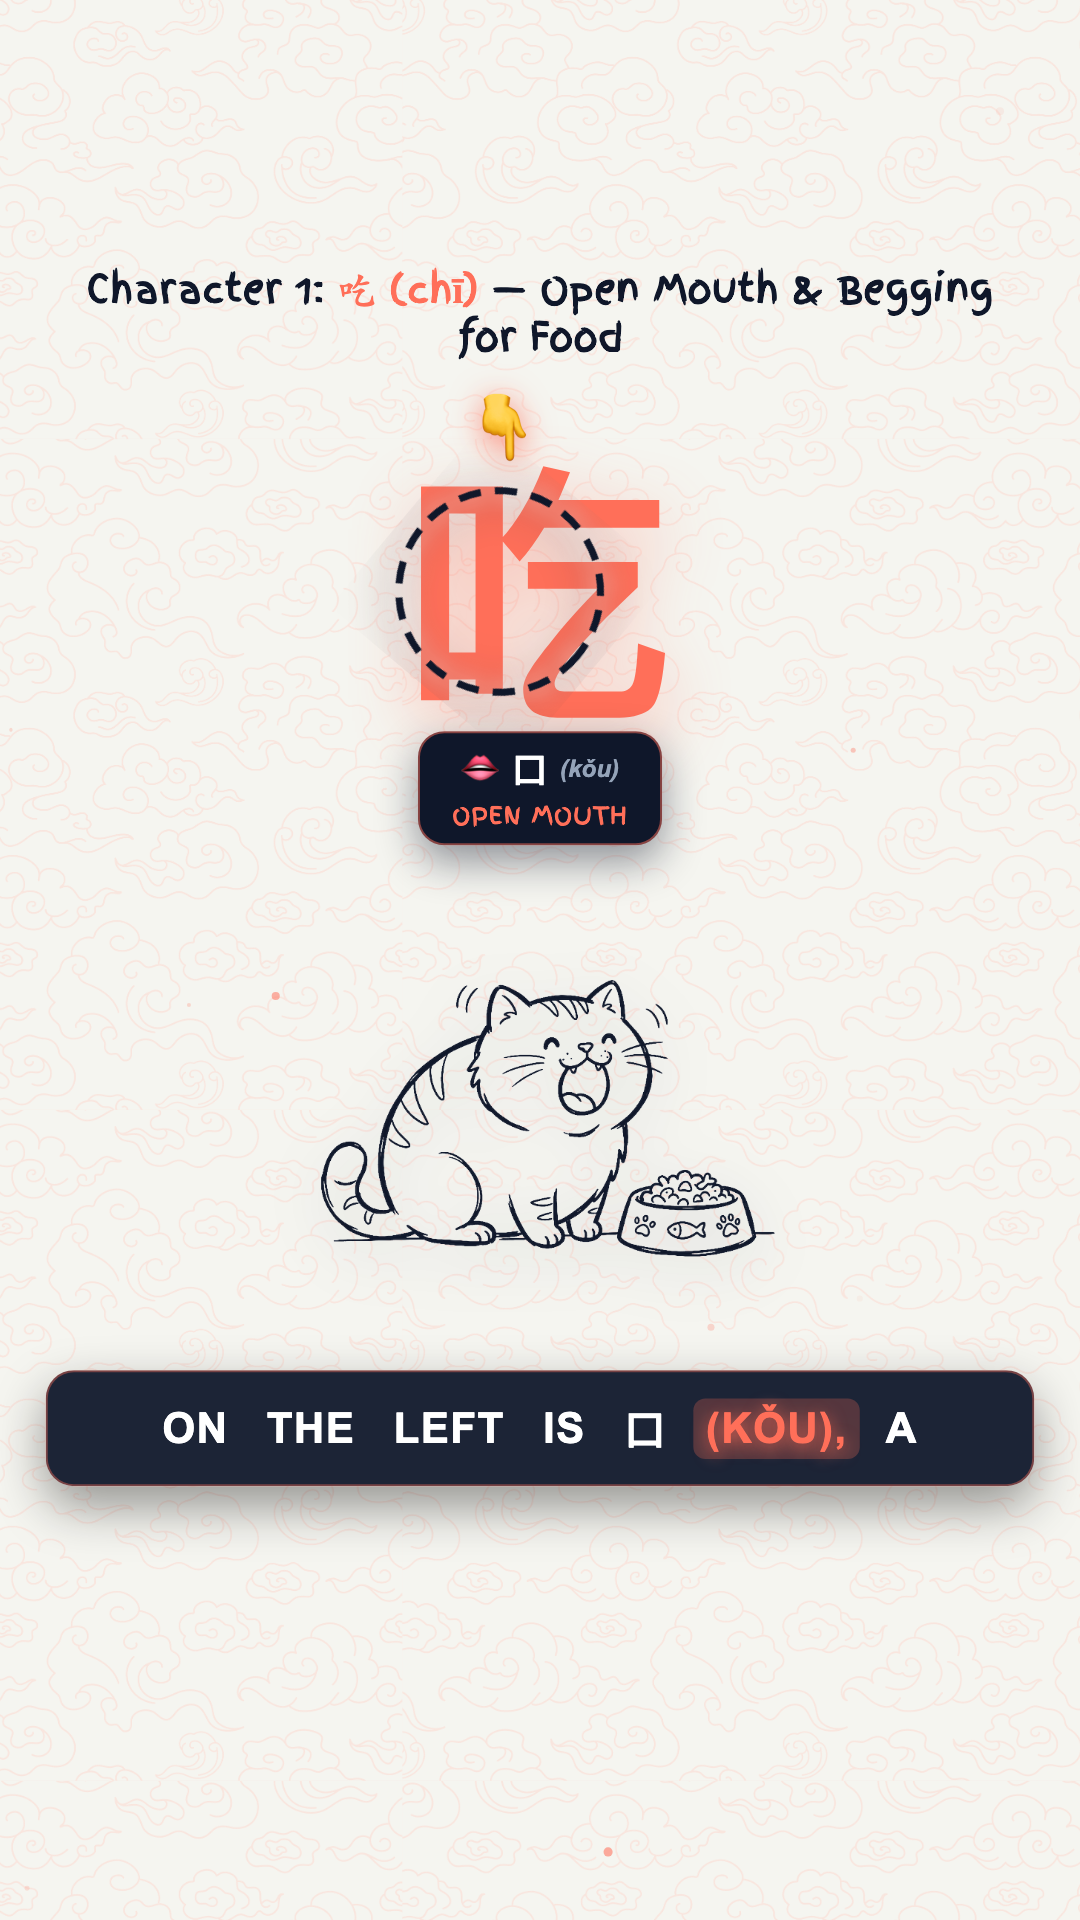
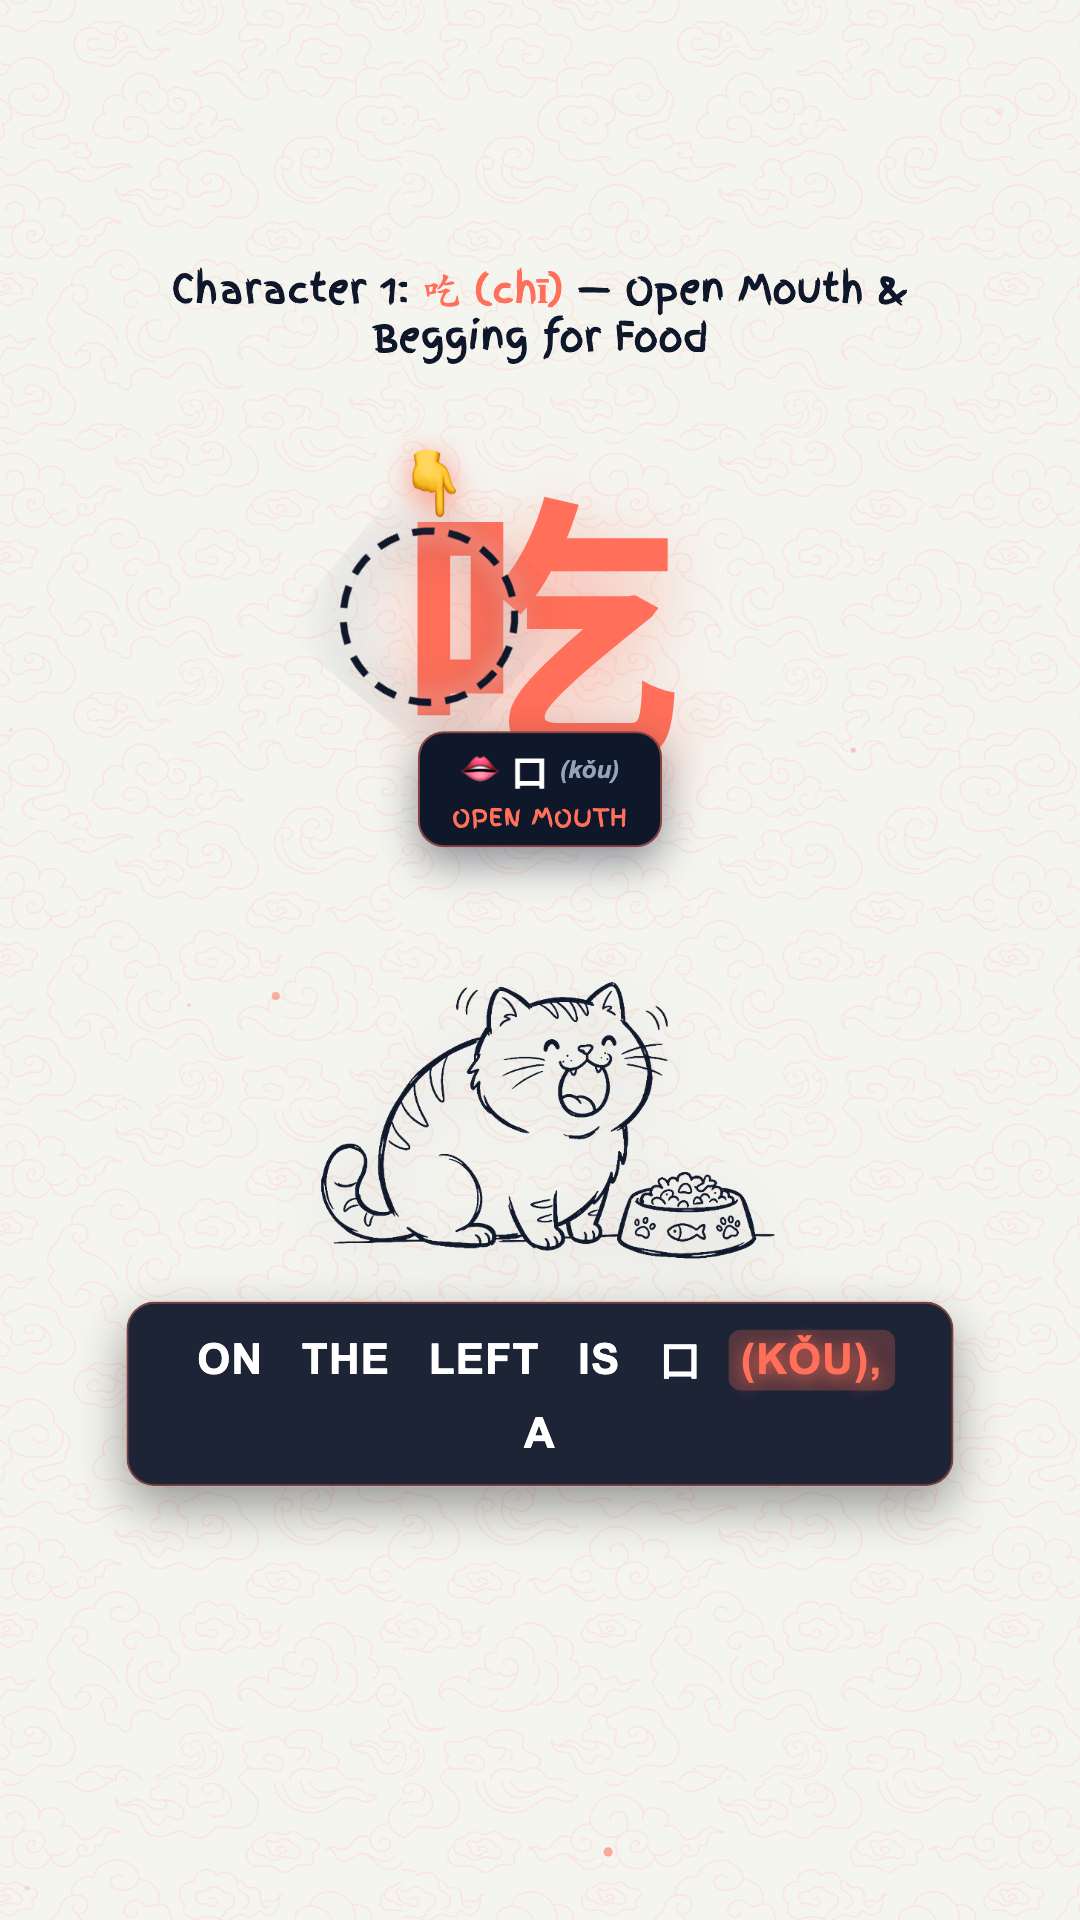
fix(chicu): calibrate spotlight coordinates and restore root canvas centering

Changed region(s): [[0.0306, 0.5, 0.9778, 0.8125], [0.0917, 0.125, 0.9167, 0.4375], [0.3667, 0.5625, 0.3972, 0.5938]]

diff --git a/engine/src/templates/EtymologyTemplate.tsx b/engine/src/templates/EtymologyTemplate.tsx
@@ -134,7 +134,7 @@ const DynamicSmoothSpotlight: React.FC<{
       <div
         style={{
           position: 'absolute',
-          top: -(radius - 15),
+          top: -(radius - 30),
           left: '50%',
           transform: 'translateX(-50%)',
           color: '#FF6F59',
@@ -487,18 +487,18 @@ export const EtymologyTemplate: React.FC<EtymologyConfig> = ({
     if (isScreen2TopBang) {
       // 口 (left)
       spot2X = 430;
-      spot2Y = 160;
-      spot2R = 95;
+      spot2Y = 165;
+      spot2R = 85;
     } else if (isScreen2BottomJin) {
       // 乞 (right)
-      spot2X = 590;
-      spot2Y = 165;
-      spot2R = 120;
+      spot2X = 585;
+      spot2Y = 175;
+      spot2R = 105;
     } else if (isScreen2WholeBang) {
       // 吃 (whole)
       spot2X = 540;
-      spot2Y = 160;
-      spot2R = 150;
+      spot2Y = 170;
+      spot2R = 165;
     }
   } else if (isDongxi) {
     if (isScreen2TopBang) {
@@ -575,19 +575,19 @@ export const EtymologyTemplate: React.FC<EtymologyConfig> = ({
   if (isChicu) {
     if (isScreen3LeftQie) {
       // 酉 (left)
-      spot3X = 440;
-      spot3Y = 165;
-      spot3R = 120;
+      spot3X = 460;
+      spot3Y = 175;
+      spot3R = 105;
     } else if (isScreen3RightLi) {
       // 昔 (right)
-      spot3X = 600;
-      spot3Y = 165;
-      spot3R = 120;
+      spot3X = 605;
+      spot3Y = 175;
+      spot3R = 105;
     } else if (isScreen3WholeZhu) {
       // 醋 (whole)
       spot3X = 540;
-      spot3Y = 160;
-      spot3R = 150;
+      spot3Y = 170;
+      spot3R = 165;
     }
   } else if (isDongxi) {
     if (isScreen3LeftQie) {
@@ -867,7 +867,7 @@ export const EtymologyTemplate: React.FC<EtymologyConfig> = ({
         )}
 
         <AbsoluteFill style={{ 
-          padding: '30px 70px', 
+          padding: '30px 0', 
           display: 'flex', 
           flexDirection: 'column', 
           alignItems: 'center', 
@@ -955,7 +955,7 @@ export const EtymologyTemplate: React.FC<EtymologyConfig> = ({
               position: 'relative',
               width: '100%',
               height: 320,
-              marginTop: 15,
+              marginTop: 35,
               display: 'flex',
               alignItems: 'center',
               justifyContent: 'center',
